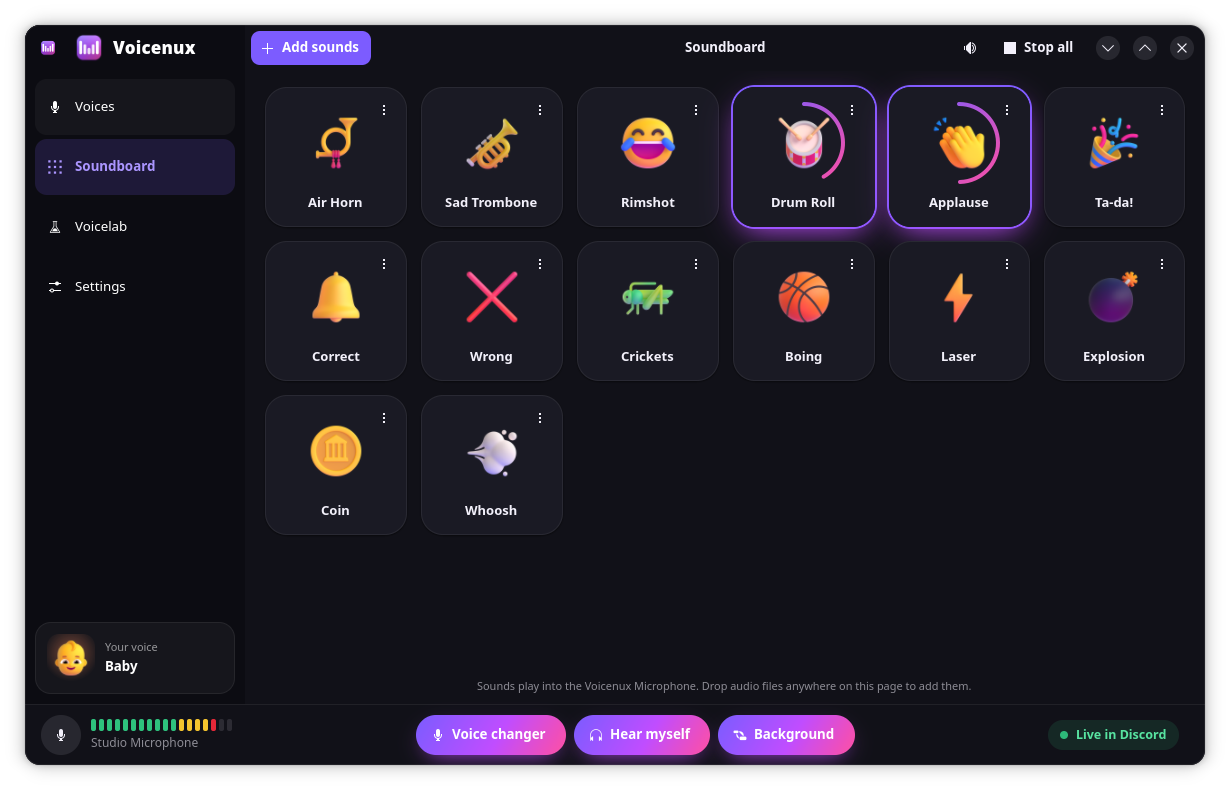
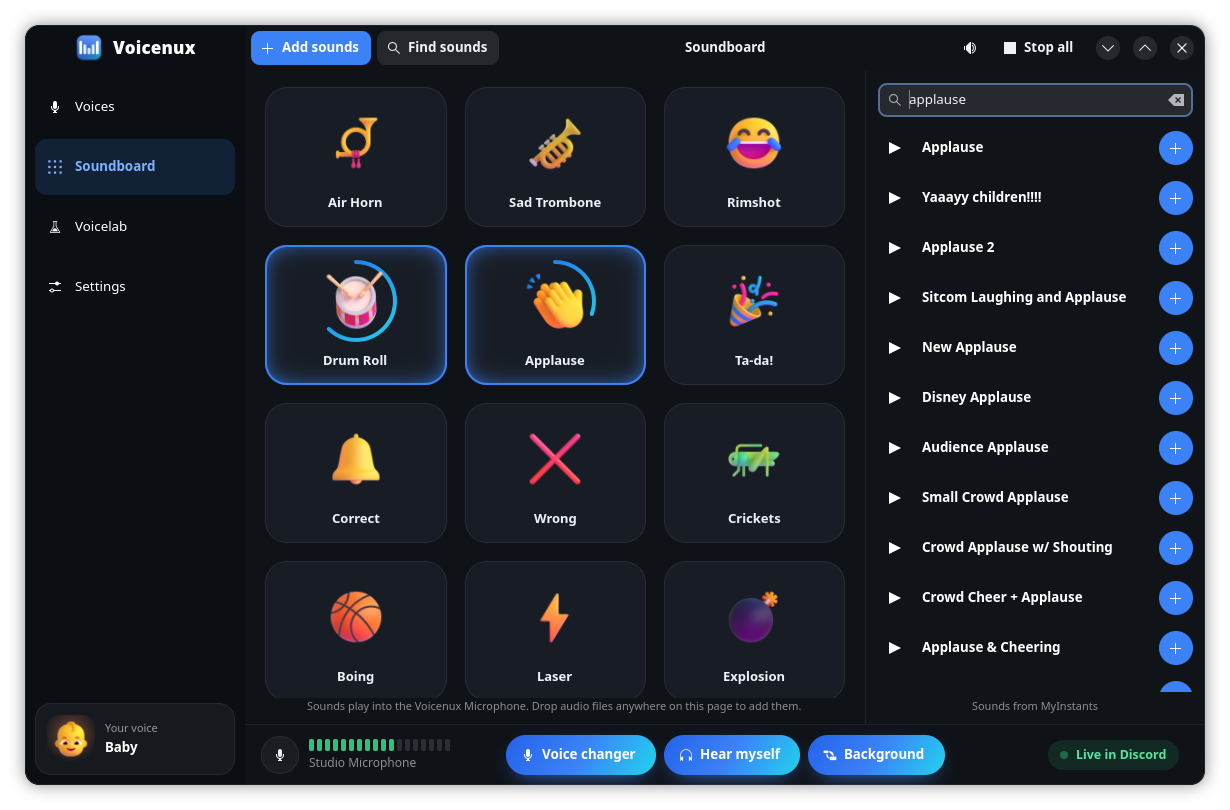
docs: new screenshots

diff --git a/README.md b/README.md
@@ -59,7 +59,7 @@ When you close the window, Voicenux keeps running in the tray, so your voice kee
 
 ### Soundboard
 
-<img width="720" src="res/soundboard.png" alt="The soundboard with sound pads; Drum Roll and Applause are playing and show their progress as a ring">
+<img width="720" src="res/soundboard.png" alt="The soundboard with sound pads; Drum Roll and Applause are playing and show their progress as a ring. On the right, Find sounds lists applause sounds from MyInstants, each with a play and an add button">
 
 Sounds play into the Voicenux Microphone, and you hear them too. Add your own with **Add sounds**, or drop audio files on the page. MP3, OGG, FLAC and WAV work. The menu of a sound changes its name, picture, volume and shortcut, and what a press does: play from the start, play and stop, play on top or loop. Right-click a sound to open it.
 
